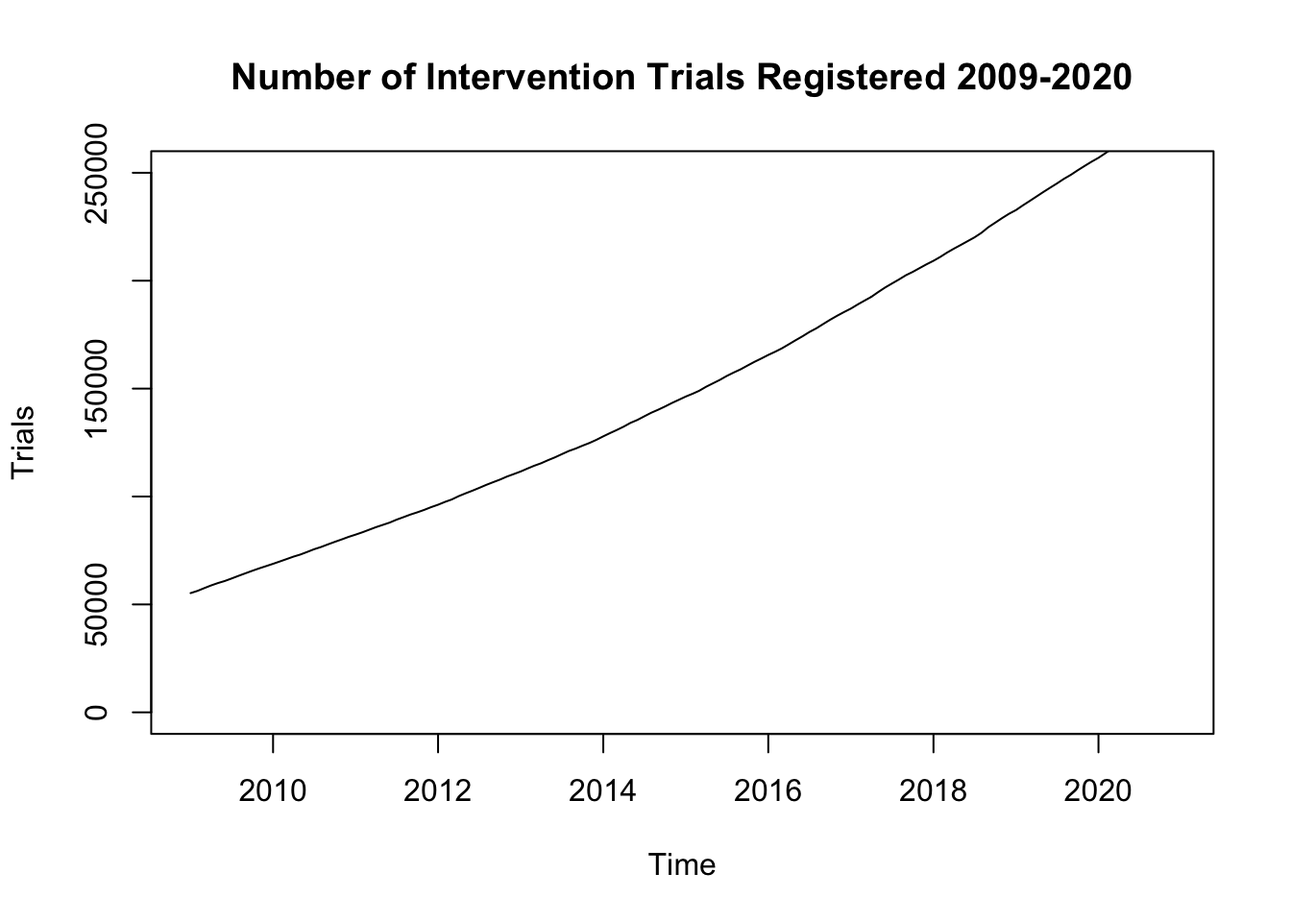
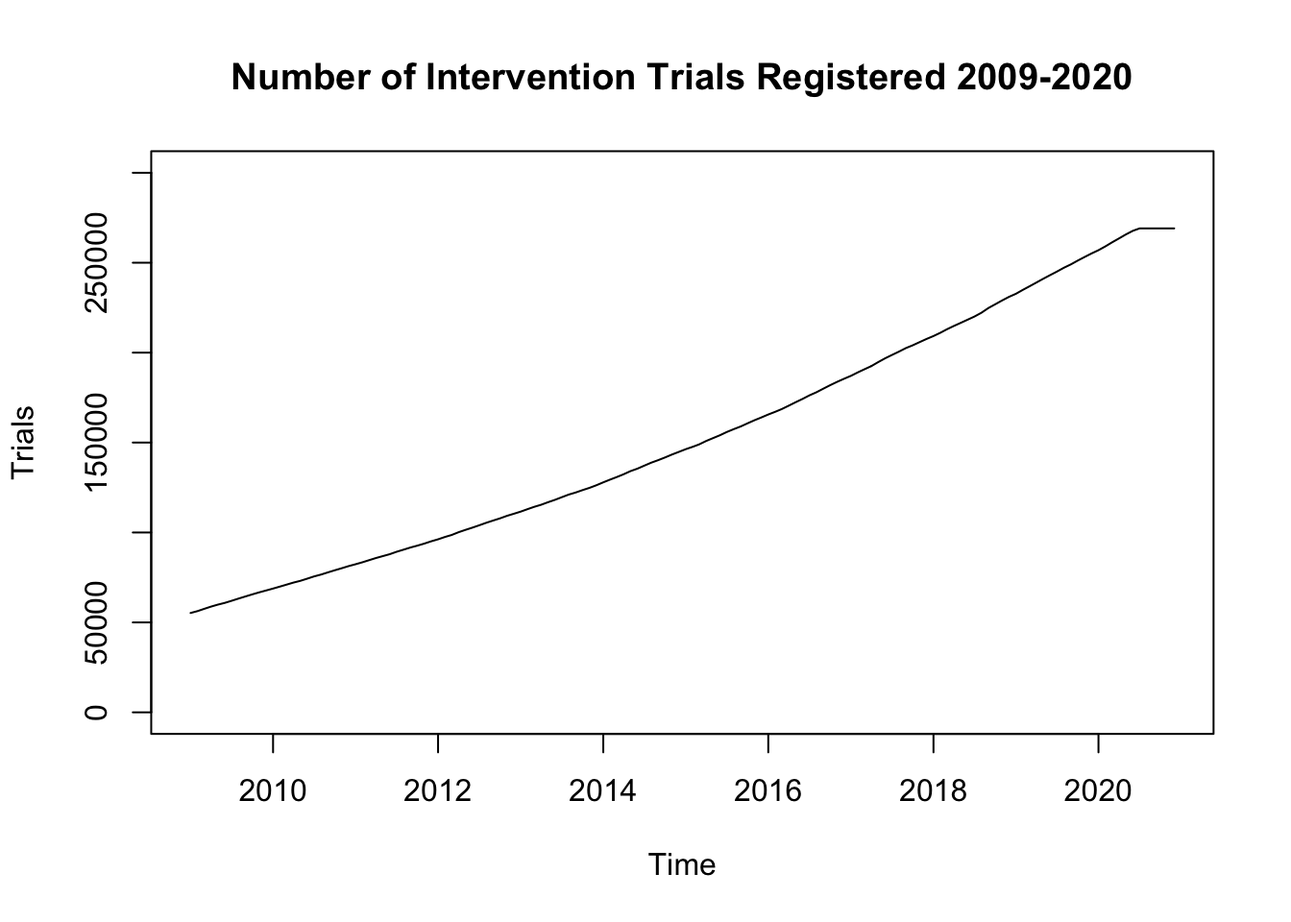
june 2020 update

diff --git a/docs/_site/PROSPERO.html b/docs/_site/PROSPERO.html
@@ -405,8 +405,8 @@ prospero_all &lt;-<span class="st"> </span><span class="kw">read.csv</span>(<spa
     <span class="dt">xaxis =</span> <span class="kw">list</span>(<span class="dt">title =</span><span class="st">&quot;Year&quot;</span>),
     <span class="dt">yaxis =</span> <span class="kw">list</span>(<span class="dt">title =</span><span class="st">&quot;Registrations&quot;</span>)
     )</code></pre></div>
-<div id="htmlwidget-716be767fef73a424306" style="width:672px;height:480px;" class="plotly html-widget"></div>
-<script type="application/json" data-for="htmlwidget-716be767fef73a424306">{"x":{"visdat":{"4c3edcb0403":["function () ","plotlyVisDat"]},"cur_data":"4c3edcb0403","attrs":{"4c3edcb0403":{"x":{},"alpha_stroke":1,"sizes":[10,100],"spans":[1,20],"type":"scatter","y":{},"name":"Number of Registrations","mode":"lines+markers","line":{"color":"rgb(205, 12, 24)","width":2},"inherit":true}},"layout":{"margin":{"b":40,"l":60,"t":25,"r":10},"title":"All systematic review registrations on PROSPERO","xaxis":{"domain":[0,1],"automargin":true,"title":"Year"},"yaxis":{"domain":[0,1],"automargin":true,"title":"Registrations"},"hovermode":"closest","showlegend":false},"source":"A","config":{"showSendToCloud":false},"data":[{"x":[2011,2012,2013,2014,2015,2016,2017,2018,2019],"type":"scatter","y":[284,759,1484,2753,5683,8245,10724,15667,10242],"name":"Number of Registrations","mode":"lines+markers","line":{"color":"rgb(205, 12, 24)","width":2},"marker":{"color":"rgba(31,119,180,1)","line":{"color":"rgba(31,119,180,1)"}},"error_y":{"color":"rgba(31,119,180,1)"},"error_x":{"color":"rgba(31,119,180,1)"},"xaxis":"x","yaxis":"y","frame":null}],"highlight":{"on":"plotly_click","persistent":false,"dynamic":false,"selectize":false,"opacityDim":0.2,"selected":{"opacity":1},"debounce":0},"shinyEvents":["plotly_hover","plotly_click","plotly_selected","plotly_relayout","plotly_brushed","plotly_brushing","plotly_clickannotation","plotly_doubleclick","plotly_deselect","plotly_afterplot","plotly_sunburstclick"],"base_url":"https://plot.ly"},"evals":[],"jsHooks":[]}</script>
+<div id="htmlwidget-1d5f9e5b6cb83e99c22f" style="width:672px;height:480px;" class="plotly html-widget"></div>
+<script type="application/json" data-for="htmlwidget-1d5f9e5b6cb83e99c22f">{"x":{"visdat":{"4b394e273cd4":["function () ","plotlyVisDat"]},"cur_data":"4b394e273cd4","attrs":{"4b394e273cd4":{"x":{},"alpha_stroke":1,"sizes":[10,100],"spans":[1,20],"type":"scatter","y":{},"name":"Number of Registrations","mode":"lines+markers","line":{"color":"rgb(205, 12, 24)","width":2},"inherit":true}},"layout":{"margin":{"b":40,"l":60,"t":25,"r":10},"title":"All systematic review registrations on PROSPERO","xaxis":{"domain":[0,1],"automargin":true,"title":"Year"},"yaxis":{"domain":[0,1],"automargin":true,"title":"Registrations"},"hovermode":"closest","showlegend":false},"source":"A","config":{"showSendToCloud":false},"data":[{"x":[2011,2012,2013,2014,2015,2016,2017,2018,2019],"type":"scatter","y":[284,759,1484,2753,5683,8245,10724,15667,10242],"name":"Number of Registrations","mode":"lines+markers","line":{"color":"rgb(205, 12, 24)","width":2},"marker":{"color":"rgba(31,119,180,1)","line":{"color":"rgba(31,119,180,1)"}},"error_y":{"color":"rgba(31,119,180,1)"},"error_x":{"color":"rgba(31,119,180,1)"},"xaxis":"x","yaxis":"y","frame":null}],"highlight":{"on":"plotly_click","persistent":false,"dynamic":false,"selectize":false,"opacityDim":0.2,"selected":{"opacity":1},"debounce":0},"shinyEvents":["plotly_hover","plotly_click","plotly_selected","plotly_relayout","plotly_brushed","plotly_brushing","plotly_clickannotation","plotly_doubleclick","plotly_deselect","plotly_afterplot","plotly_sunburstclick"],"base_url":"https://plot.ly"},"evals":[],"jsHooks":[]}</script>
 </div>
 <div id="clinical-and-general-registrations" class="section level2">
 <h2>Clinical and General Registrations</h2>
@@ -424,8 +424,8 @@ prospero_clinical &lt;-<span class="st"> </span><span class="kw">read.csv</span>
     <span class="dt">xaxis =</span> <span class="kw">list</span>(<span class="dt">title =</span><span class="st">&quot;Year&quot;</span>),
     <span class="dt">yaxis =</span> <span class="kw">list</span>(<span class="dt">title =</span><span class="st">&quot;Registrations&quot;</span>)
     )</code></pre></div>
-<div id="htmlwidget-c168f04487292c4ee9c0" style="width:672px;height:480px;" class="plotly html-widget"></div>
-<script type="application/json" data-for="htmlwidget-c168f04487292c4ee9c0">{"x":{"visdat":{"4c3e759eb18":["function () ","plotlyVisDat"]},"cur_data":"4c3e759eb18","attrs":{"4c3e759eb18":{"x":{},"alpha_stroke":1,"sizes":[10,100],"spans":[1,20],"type":"scatter","y":{},"name":"Number of Registrations","mode":"lines+markers","line":{"color":"rgb(22, 96, 167)","width":2},"inherit":true}},"layout":{"margin":{"b":40,"l":60,"t":25,"r":10},"title":"Clinical & General Systematic Review Registrations on PROSPERO","xaxis":{"domain":[0,1],"automargin":true,"title":"Year"},"yaxis":{"domain":[0,1],"automargin":true,"title":"Registrations"},"hovermode":"closest","showlegend":false},"source":"A","config":{"showSendToCloud":false},"data":[{"x":[2011,2012,2013,2014,2015,2016,2017,2018,2019],"type":"scatter","y":[284,759,1484,2753,4689,7857,10108,15350,9856],"name":"Number of Registrations","mode":"lines+markers","line":{"color":"rgb(22, 96, 167)","width":2},"marker":{"color":"rgba(31,119,180,1)","line":{"color":"rgba(31,119,180,1)"}},"error_y":{"color":"rgba(31,119,180,1)"},"error_x":{"color":"rgba(31,119,180,1)"},"xaxis":"x","yaxis":"y","frame":null}],"highlight":{"on":"plotly_click","persistent":false,"dynamic":false,"selectize":false,"opacityDim":0.2,"selected":{"opacity":1},"debounce":0},"shinyEvents":["plotly_hover","plotly_click","plotly_selected","plotly_relayout","plotly_brushed","plotly_brushing","plotly_clickannotation","plotly_doubleclick","plotly_deselect","plotly_afterplot","plotly_sunburstclick"],"base_url":"https://plot.ly"},"evals":[],"jsHooks":[]}</script>
+<div id="htmlwidget-3d562a5215caf94658b7" style="width:672px;height:480px;" class="plotly html-widget"></div>
+<script type="application/json" data-for="htmlwidget-3d562a5215caf94658b7">{"x":{"visdat":{"4b391a3800c5":["function () ","plotlyVisDat"]},"cur_data":"4b391a3800c5","attrs":{"4b391a3800c5":{"x":{},"alpha_stroke":1,"sizes":[10,100],"spans":[1,20],"type":"scatter","y":{},"name":"Number of Registrations","mode":"lines+markers","line":{"color":"rgb(22, 96, 167)","width":2},"inherit":true}},"layout":{"margin":{"b":40,"l":60,"t":25,"r":10},"title":"Clinical & General Systematic Review Registrations on PROSPERO","xaxis":{"domain":[0,1],"automargin":true,"title":"Year"},"yaxis":{"domain":[0,1],"automargin":true,"title":"Registrations"},"hovermode":"closest","showlegend":false},"source":"A","config":{"showSendToCloud":false},"data":[{"x":[2011,2012,2013,2014,2015,2016,2017,2018,2019],"type":"scatter","y":[284,759,1484,2753,4689,7857,10108,15350,9856],"name":"Number of Registrations","mode":"lines+markers","line":{"color":"rgb(22, 96, 167)","width":2},"marker":{"color":"rgba(31,119,180,1)","line":{"color":"rgba(31,119,180,1)"}},"error_y":{"color":"rgba(31,119,180,1)"},"error_x":{"color":"rgba(31,119,180,1)"},"xaxis":"x","yaxis":"y","frame":null}],"highlight":{"on":"plotly_click","persistent":false,"dynamic":false,"selectize":false,"opacityDim":0.2,"selected":{"opacity":1},"debounce":0},"shinyEvents":["plotly_hover","plotly_click","plotly_selected","plotly_relayout","plotly_brushed","plotly_brushing","plotly_clickannotation","plotly_doubleclick","plotly_deselect","plotly_afterplot","plotly_sunburstclick"],"base_url":"https://plot.ly"},"evals":[],"jsHooks":[]}</script>
 </div>
 <div id="animal-systematic-review-registrations" class="section level1">
 <h1>Animal Systematic Review Registrations</h1>
@@ -443,8 +443,8 @@ prospero_animal &lt;-<span class="st"> </span><span class="kw">read.csv</span>(<
     <span class="dt">xaxis =</span> <span class="kw">list</span>(<span class="dt">title =</span><span class="st">&quot;Year&quot;</span>),
     <span class="dt">yaxis =</span> <span class="kw">list</span>(<span class="dt">title =</span><span class="st">&quot;Registrations&quot;</span>)
     )</code></pre></div>
-<div id="htmlwidget-2647c742474ac26edae2" style="width:672px;height:480px;" class="plotly html-widget"></div>
-<script type="application/json" data-for="htmlwidget-2647c742474ac26edae2">{"x":{"visdat":{"4c3e51f14cb2":["function () ","plotlyVisDat"]},"cur_data":"4c3e51f14cb2","attrs":{"4c3e51f14cb2":{"x":{},"alpha_stroke":1,"sizes":[10,100],"spans":[1,20],"type":"scatter","y":{},"name":"Number of Registrations","mode":"lines+markers","line":{"color":"rgb(2, 2, 2)","width":2},"inherit":true}},"layout":{"margin":{"b":40,"l":60,"t":25,"r":10},"title":"Animal Systematic Review Registrations on PROSPERO","xaxis":{"domain":[0,1],"automargin":true,"title":"Year"},"yaxis":{"domain":[0,1],"automargin":true,"title":"Registrations"},"hovermode":"closest","showlegend":false},"source":"A","config":{"showSendToCloud":false},"data":[{"x":[2011,2012,2013,2014,2015,2016,2017,2018,2019],"type":"scatter","y":[0,0,0,0,0,0,2,117,133],"name":"Number of Registrations","mode":"lines+markers","line":{"color":"rgb(2, 2, 2)","width":2},"marker":{"color":"rgba(31,119,180,1)","line":{"color":"rgba(31,119,180,1)"}},"error_y":{"color":"rgba(31,119,180,1)"},"error_x":{"color":"rgba(31,119,180,1)"},"xaxis":"x","yaxis":"y","frame":null}],"highlight":{"on":"plotly_click","persistent":false,"dynamic":false,"selectize":false,"opacityDim":0.2,"selected":{"opacity":1},"debounce":0},"shinyEvents":["plotly_hover","plotly_click","plotly_selected","plotly_relayout","plotly_brushed","plotly_brushing","plotly_clickannotation","plotly_doubleclick","plotly_deselect","plotly_afterplot","plotly_sunburstclick"],"base_url":"https://plot.ly"},"evals":[],"jsHooks":[]}</script>
+<div id="htmlwidget-8b3c6beabd67bc7e7560" style="width:672px;height:480px;" class="plotly html-widget"></div>
+<script type="application/json" data-for="htmlwidget-8b3c6beabd67bc7e7560">{"x":{"visdat":{"4b3957063d41":["function () ","plotlyVisDat"]},"cur_data":"4b3957063d41","attrs":{"4b3957063d41":{"x":{},"alpha_stroke":1,"sizes":[10,100],"spans":[1,20],"type":"scatter","y":{},"name":"Number of Registrations","mode":"lines+markers","line":{"color":"rgb(2, 2, 2)","width":2},"inherit":true}},"layout":{"margin":{"b":40,"l":60,"t":25,"r":10},"title":"Animal Systematic Review Registrations on PROSPERO","xaxis":{"domain":[0,1],"automargin":true,"title":"Year"},"yaxis":{"domain":[0,1],"automargin":true,"title":"Registrations"},"hovermode":"closest","showlegend":false},"source":"A","config":{"showSendToCloud":false},"data":[{"x":[2011,2012,2013,2014,2015,2016,2017,2018,2019],"type":"scatter","y":[0,0,0,0,0,0,2,117,133],"name":"Number of Registrations","mode":"lines+markers","line":{"color":"rgb(2, 2, 2)","width":2},"marker":{"color":"rgba(31,119,180,1)","line":{"color":"rgba(31,119,180,1)"}},"error_y":{"color":"rgba(31,119,180,1)"},"error_x":{"color":"rgba(31,119,180,1)"},"xaxis":"x","yaxis":"y","frame":null}],"highlight":{"on":"plotly_click","persistent":false,"dynamic":false,"selectize":false,"opacityDim":0.2,"selected":{"opacity":1},"debounce":0},"shinyEvents":["plotly_hover","plotly_click","plotly_selected","plotly_relayout","plotly_brushed","plotly_brushing","plotly_clickannotation","plotly_doubleclick","plotly_deselect","plotly_afterplot","plotly_sunburstclick"],"base_url":"https://plot.ly"},"evals":[],"jsHooks":[]}</script>
 </div>
 <div id="cochrane-systematic-review-registrations" class="section level1">
 <h1>Cochrane Systematic Review Registrations</h1>
@@ -462,8 +462,8 @@ prospero_cochrane &lt;-<span class="st"> </span><span class="kw">read.csv</span>
     <span class="dt">xaxis =</span> <span class="kw">list</span>(<span class="dt">title =</span><span class="st">&quot;Year&quot;</span>),
     <span class="dt">yaxis =</span> <span class="kw">list</span>(<span class="dt">title =</span><span class="st">&quot;Registrations&quot;</span>)
   )</code></pre></div>
-<div id="htmlwidget-92e4b57f88ecf39bdf11" style="width:672px;height:480px;" class="plotly html-widget"></div>
-<script type="application/json" data-for="htmlwidget-92e4b57f88ecf39bdf11">{"x":{"visdat":{"4c3e171cd650":["function () ","plotlyVisDat"]},"cur_data":"4c3e171cd650","attrs":{"4c3e171cd650":{"x":{},"alpha_stroke":1,"sizes":[10,100],"spans":[1,20],"type":"scatter","y":{},"name":"Number of Registrations","mode":"lines+markers","line":{"color":"rgb(147, 43, 140)","width":2},"inherit":true}},"layout":{"margin":{"b":40,"l":60,"t":25,"r":10},"title":"Cochrane Systematic Review Registrations on PROSPERO","xaxis":{"domain":[0,1],"automargin":true,"title":"Year"},"yaxis":{"domain":[0,1],"automargin":true,"title":"Registrations"},"hovermode":"closest","showlegend":false},"source":"A","config":{"showSendToCloud":false},"data":[{"x":[2011,2012,2013,2014,2015,2016,2017,2018,2019],"type":"scatter","y":[0,0,0,0,994,388,614,200,253],"name":"Number of Registrations","mode":"lines+markers","line":{"color":"rgb(147, 43, 140)","width":2},"marker":{"color":"rgba(31,119,180,1)","line":{"color":"rgba(31,119,180,1)"}},"error_y":{"color":"rgba(31,119,180,1)"},"error_x":{"color":"rgba(31,119,180,1)"},"xaxis":"x","yaxis":"y","frame":null}],"highlight":{"on":"plotly_click","persistent":false,"dynamic":false,"selectize":false,"opacityDim":0.2,"selected":{"opacity":1},"debounce":0},"shinyEvents":["plotly_hover","plotly_click","plotly_selected","plotly_relayout","plotly_brushed","plotly_brushing","plotly_clickannotation","plotly_doubleclick","plotly_deselect","plotly_afterplot","plotly_sunburstclick"],"base_url":"https://plot.ly"},"evals":[],"jsHooks":[]}</script>
+<div id="htmlwidget-aedf84c7fd5b3f71d80c" style="width:672px;height:480px;" class="plotly html-widget"></div>
+<script type="application/json" data-for="htmlwidget-aedf84c7fd5b3f71d80c">{"x":{"visdat":{"4b392688d25a":["function () ","plotlyVisDat"]},"cur_data":"4b392688d25a","attrs":{"4b392688d25a":{"x":{},"alpha_stroke":1,"sizes":[10,100],"spans":[1,20],"type":"scatter","y":{},"name":"Number of Registrations","mode":"lines+markers","line":{"color":"rgb(147, 43, 140)","width":2},"inherit":true}},"layout":{"margin":{"b":40,"l":60,"t":25,"r":10},"title":"Cochrane Systematic Review Registrations on PROSPERO","xaxis":{"domain":[0,1],"automargin":true,"title":"Year"},"yaxis":{"domain":[0,1],"automargin":true,"title":"Registrations"},"hovermode":"closest","showlegend":false},"source":"A","config":{"showSendToCloud":false},"data":[{"x":[2011,2012,2013,2014,2015,2016,2017,2018,2019],"type":"scatter","y":[0,0,0,0,994,388,614,200,253],"name":"Number of Registrations","mode":"lines+markers","line":{"color":"rgb(147, 43, 140)","width":2},"marker":{"color":"rgba(31,119,180,1)","line":{"color":"rgba(31,119,180,1)"}},"error_y":{"color":"rgba(31,119,180,1)"},"error_x":{"color":"rgba(31,119,180,1)"},"xaxis":"x","yaxis":"y","frame":null}],"highlight":{"on":"plotly_click","persistent":false,"dynamic":false,"selectize":false,"opacityDim":0.2,"selected":{"opacity":1},"debounce":0},"shinyEvents":["plotly_hover","plotly_click","plotly_selected","plotly_relayout","plotly_brushed","plotly_brushing","plotly_clickannotation","plotly_doubleclick","plotly_deselect","plotly_afterplot","plotly_sunburstclick"],"base_url":"https://plot.ly"},"evals":[],"jsHooks":[]}</script>
 <p>Please contact <a href="mailto:alexandra_bannachbrown@bond.edu.au" target="_blank"> Alexandra Bannach-Brown</a> if you have any questions.</p>
 </div>
 

diff --git a/docs/_site/pubmed_sys_rev.html b/docs/_site/pubmed_sys_rev.html
@@ -378,7 +378,7 @@ $(document).ready(function () {
 
 <h1 class="title toc-ignore">Identifying Systematic Reviews from PubMed</h1>
 <h4 class="author">Alexandra Bannach-Brown on behalf of the EQUATOR Network</h4>
-<h4 class="date">08 April, 2020</h4>
+<h4 class="date">17 June, 2020</h4>
 
 </div>
 
@@ -392,9 +392,9 @@ $(document).ready(function () {
 <p>We query PubMed via the API to find the number of records that are systematic reviews and have the ‘human’ MESH heading attached.</p>
 <div class="sourceCode"><pre class="sourceCode r"><code class="sourceCode r"><span class="co"># human systematic reviews pubmed query</span>
 sys_rev_human_query &lt;-<span class="st"> &quot;(systematic review[PTYP] AND human[MESH])&quot;</span>
-sys_rev_human_search &lt;-<span class="st"> </span><span class="kw">entrez_search</span>(<span class="dt">db =</span> <span class="st">&quot;pubmed&quot;</span>, sys_rev_human_query, <span class="dt">use_history =</span> <span class="ot">TRUE</span> )
+sys_rev_human_search &lt;-<span class="st"> </span><span class="kw">entrez_search</span>(<span class="dt">db =</span> <span class="st">&quot;pubmed&quot;</span>, sys_rev_human_query, <span class="dt">use_history =</span> <span class="ot">FALSE</span> )
 sys_rev_human_search<span class="op">$</span>count</code></pre></div>
-<pre><code>## [1] 122014</code></pre>
+<pre><code>## [1] 126364</code></pre>
 <p>We can visualise the number of systematic reviews published in the past 10 years.</p>
 <div class="sourceCode"><pre class="sourceCode r"><code class="sourceCode r">sys_rev_year &lt;-<span class="st"> </span><span class="cf">function</span>(year, term){
   query &lt;-<span class="st"> </span><span class="kw">paste</span>(term, <span class="st">&quot;AND(&quot;</span>, year, <span class="st">&quot;[PDAT])&quot;</span>)
@@ -420,17 +420,17 @@ papers &lt;-<span class="st"> </span><span class="kw">sapply</span>(year, sys_re
     <span class="dt">xaxis =</span> <span class="kw">list</span>(<span class="dt">title =</span><span class="st">&quot;Year&quot;</span>),
     <span class="dt">yaxis =</span> <span class="kw">list</span>(<span class="dt">title =</span><span class="st">&quot;Articles&quot;</span>, <span class="dt">rangemode =</span> <span class="st">&quot;tozero&quot;</span>)
   )</code></pre></div>
-<div id="htmlwidget-5fcfb3b39bca4f7f791f" style="width:672px;height:480px;" class="plotly html-widget"></div>
-<script type="application/json" data-for="htmlwidget-5fcfb3b39bca4f7f791f">{"x":{"visdat":{"4c3e17662ec3":["function () ","plotlyVisDat"]},"cur_data":"4c3e17662ec3","attrs":{"4c3e17662ec3":{"x":{},"alpha_stroke":1,"sizes":[10,100],"spans":[1,20],"type":"scatter","y":{},"name":"Number of Systematic Reviews Published","mode":"lines+markers","line":{"color":"rgb(171,39,79)","width":2},"inherit":true}},"layout":{"margin":{"b":40,"l":60,"t":25,"r":10},"title":"Increase in Human Systematic Reviews - Count per year 2008:2019","xaxis":{"domain":[0,1],"automargin":true,"title":"Year"},"yaxis":{"domain":[0,1],"automargin":true,"title":"Articles","rangemode":"tozero"},"hovermode":"closest","showlegend":false},"source":"A","config":{"showSendToCloud":false},"data":[{"x":[2008,2009,2010,2011,2012,2013,2014,2015,2016,2017,2018,2019],"type":"scatter","y":[3554,4333,5188,6411,8136,9998,11716,13491,14969,16870,18628,12866],"name":"Number of Systematic Reviews Published","mode":"lines+markers","line":{"color":"rgb(171,39,79)","width":2},"marker":{"color":"rgba(31,119,180,1)","line":{"color":"rgba(31,119,180,1)"}},"error_y":{"color":"rgba(31,119,180,1)"},"error_x":{"color":"rgba(31,119,180,1)"},"xaxis":"x","yaxis":"y","frame":null}],"highlight":{"on":"plotly_click","persistent":false,"dynamic":false,"selectize":false,"opacityDim":0.2,"selected":{"opacity":1},"debounce":0},"shinyEvents":["plotly_hover","plotly_click","plotly_selected","plotly_relayout","plotly_brushed","plotly_brushing","plotly_clickannotation","plotly_doubleclick","plotly_deselect","plotly_afterplot","plotly_sunburstclick"],"base_url":"https://plot.ly"},"evals":[],"jsHooks":[]}</script>
+<div id="htmlwidget-2b8b12f956a98299e344" style="width:672px;height:480px;" class="plotly html-widget"></div>
+<script type="application/json" data-for="htmlwidget-2b8b12f956a98299e344">{"x":{"visdat":{"4b39bd0c06b":["function () ","plotlyVisDat"]},"cur_data":"4b39bd0c06b","attrs":{"4b39bd0c06b":{"x":{},"alpha_stroke":1,"sizes":[10,100],"spans":[1,20],"type":"scatter","y":{},"name":"Number of Systematic Reviews Published","mode":"lines+markers","line":{"color":"rgb(171,39,79)","width":2},"inherit":true}},"layout":{"margin":{"b":40,"l":60,"t":25,"r":10},"title":"Increase in Human Systematic Reviews - Count per year 2008:2019","xaxis":{"domain":[0,1],"automargin":true,"title":"Year"},"yaxis":{"domain":[0,1],"automargin":true,"title":"Articles","rangemode":"tozero"},"hovermode":"closest","showlegend":false},"source":"A","config":{"showSendToCloud":false},"data":[{"x":[2008,2009,2010,2011,2012,2013,2014,2015,2016,2017,2018,2019],"type":"scatter","y":[3553,4333,5186,6407,8136,9998,11716,13493,14969,16893,19124,16568],"name":"Number of Systematic Reviews Published","mode":"lines+markers","line":{"color":"rgb(171,39,79)","width":2},"marker":{"color":"rgba(31,119,180,1)","line":{"color":"rgba(31,119,180,1)"}},"error_y":{"color":"rgba(31,119,180,1)"},"error_x":{"color":"rgba(31,119,180,1)"},"xaxis":"x","yaxis":"y","frame":null}],"highlight":{"on":"plotly_click","persistent":false,"dynamic":false,"selectize":false,"opacityDim":0.2,"selected":{"opacity":1},"debounce":0},"shinyEvents":["plotly_hover","plotly_click","plotly_selected","plotly_relayout","plotly_brushed","plotly_brushing","plotly_clickannotation","plotly_doubleclick","plotly_deselect","plotly_afterplot","plotly_sunburstclick"],"base_url":"https://plot.ly"},"evals":[],"jsHooks":[]}</script>
 </div>
 <div id="systematic-reviews-of-animal-studies" class="section level2">
 <h2>Systematic Reviews of Animal Studies</h2>
 <p>Then we query PubMed via the API to find the number of records that are systematic reviews and ‘animal’ MeSH heading.</p>
 <div class="sourceCode"><pre class="sourceCode r"><code class="sourceCode r">alt_animal_query &lt;-<span class="st"> &quot;(systematic review[PTYP] AND animal[MESH] NOT human[MESH])&quot;</span>
 
-sys_rev_animal_search &lt;-<span class="st"> </span><span class="kw">entrez_search</span>(<span class="dt">db =</span> <span class="st">&quot;pubmed&quot;</span>, alt_animal_query, <span class="dt">use_history =</span> <span class="ot">TRUE</span> )
+sys_rev_animal_search &lt;-<span class="st"> </span><span class="kw">entrez_search</span>(<span class="dt">db =</span> <span class="st">&quot;pubmed&quot;</span>, alt_animal_query, <span class="dt">use_history =</span> <span class="ot">FALSE</span>)
 sys_rev_animal_search<span class="op">$</span>count</code></pre></div>
-<pre><code>## [1] 893</code></pre>
+<pre><code>## [1] 945</code></pre>
 <p>We can visualise the number of animal systematic reviews published in the past 10 years.</p>
 <div class="sourceCode"><pre class="sourceCode r"><code class="sourceCode r">sys_rev_year &lt;-<span class="st"> </span><span class="cf">function</span>(year, term){
   query &lt;-<span class="st"> </span><span class="kw">paste</span>(term, <span class="st">&quot;AND(&quot;</span>, year, <span class="st">&quot;[PDAT])&quot;</span>)
@@ -456,8 +456,8 @@ papers_animal &lt;-<span class="st"> </span><span class="kw">sapply</span>(year,
     <span class="dt">xaxis =</span> <span class="kw">list</span>(<span class="dt">title =</span><span class="st">&quot;Year&quot;</span>),
     <span class="dt">yaxis =</span> <span class="kw">list</span>(<span class="dt">title =</span><span class="st">&quot;Articles&quot;</span>, <span class="dt">rangemode =</span> <span class="st">&quot;tozero&quot;</span>)
   )</code></pre></div>
-<div id="htmlwidget-cf4eb8e0682ca735f575" style="width:672px;height:480px;" class="plotly html-widget"></div>
-<script type="application/json" data-for="htmlwidget-cf4eb8e0682ca735f575">{"x":{"visdat":{"4c3e1c1bde0d":["function () ","plotlyVisDat"]},"cur_data":"4c3e1c1bde0d","attrs":{"4c3e1c1bde0d":{"x":{},"alpha_stroke":1,"sizes":[10,100],"spans":[1,20],"type":"scatter","y":{},"name":"Number of Systematic Reviews Published","mode":"lines+markers","line":{"color":"rgb(124,185,232)","width":2},"inherit":true}},"layout":{"margin":{"b":40,"l":60,"t":25,"r":10},"title":"Increase in Animal Systematic Reviews - Count per year 2008:2019","xaxis":{"domain":[0,1],"automargin":true,"title":"Year"},"yaxis":{"domain":[0,1],"automargin":true,"title":"Articles","rangemode":"tozero"},"hovermode":"closest","showlegend":false},"source":"A","config":{"showSendToCloud":false},"data":[{"x":[2008,2009,2010,2011,2012,2013,2014,2015,2016,2017,2018,2019],"type":"scatter","y":[11,17,24,34,59,61,90,106,130,145,167,152],"name":"Number of Systematic Reviews Published","mode":"lines+markers","line":{"color":"rgb(124,185,232)","width":2},"marker":{"color":"rgba(31,119,180,1)","line":{"color":"rgba(31,119,180,1)"}},"error_y":{"color":"rgba(31,119,180,1)"},"error_x":{"color":"rgba(31,119,180,1)"},"xaxis":"x","yaxis":"y","frame":null}],"highlight":{"on":"plotly_click","persistent":false,"dynamic":false,"selectize":false,"opacityDim":0.2,"selected":{"opacity":1},"debounce":0},"shinyEvents":["plotly_hover","plotly_click","plotly_selected","plotly_relayout","plotly_brushed","plotly_brushing","plotly_clickannotation","plotly_doubleclick","plotly_deselect","plotly_afterplot","plotly_sunburstclick"],"base_url":"https://plot.ly"},"evals":[],"jsHooks":[]}</script>
+<div id="htmlwidget-f52775f95a9ee879b3e6" style="width:672px;height:480px;" class="plotly html-widget"></div>
+<script type="application/json" data-for="htmlwidget-f52775f95a9ee879b3e6">{"x":{"visdat":{"4b397aa5836a":["function () ","plotlyVisDat"]},"cur_data":"4b397aa5836a","attrs":{"4b397aa5836a":{"x":{},"alpha_stroke":1,"sizes":[10,100],"spans":[1,20],"type":"scatter","y":{},"name":"Number of Systematic Reviews Published","mode":"lines+markers","line":{"color":"rgb(124,185,232)","width":2},"inherit":true}},"layout":{"margin":{"b":40,"l":60,"t":25,"r":10},"title":"Increase in Animal Systematic Reviews - Count per year 2008:2019","xaxis":{"domain":[0,1],"automargin":true,"title":"Year"},"yaxis":{"domain":[0,1],"automargin":true,"title":"Articles","rangemode":"tozero"},"hovermode":"closest","showlegend":false},"source":"A","config":{"showSendToCloud":false},"data":[{"x":[2008,2009,2010,2011,2012,2013,2014,2015,2016,2017,2018,2019],"type":"scatter","y":[11,17,24,34,59,61,90,106,130,147,167,194],"name":"Number of Systematic Reviews Published","mode":"lines+markers","line":{"color":"rgb(124,185,232)","width":2},"marker":{"color":"rgba(31,119,180,1)","line":{"color":"rgba(31,119,180,1)"}},"error_y":{"color":"rgba(31,119,180,1)"},"error_x":{"color":"rgba(31,119,180,1)"},"xaxis":"x","yaxis":"y","frame":null}],"highlight":{"on":"plotly_click","persistent":false,"dynamic":false,"selectize":false,"opacityDim":0.2,"selected":{"opacity":1},"debounce":0},"shinyEvents":["plotly_hover","plotly_click","plotly_selected","plotly_relayout","plotly_brushed","plotly_brushing","plotly_clickannotation","plotly_doubleclick","plotly_deselect","plotly_afterplot","plotly_sunburstclick"],"base_url":"https://plot.ly"},"evals":[],"jsHooks":[]}</script>
 <p>Please contact <a href="mailto:alexandra_bannachbrown@bond.edu.au" target="_blank"> Alexandra Bannach-Brown</a> if you have any questions.</p>
 </div>
 

diff --git a/docs/_site/clinical_trials.html b/docs/_site/clinical_trials.html
@@ -371,7 +371,7 @@ $(document).ready(function () {
 
 <h1 class="title toc-ignore">Identifying Trials Registerd on ClinicalTrials.gov</h1>
 <h4 class="author">Alexandra Bannach-Brown on behalf of the EQUATOR Network</h4>
-<h4 class="date">08 April, 2020</h4>
+<h4 class="date">17 June, 2020</h4>
 
 </div>
 
@@ -384,25 +384,25 @@ $(document).ready(function () {
 <h2>Total Number of Trials</h2>
 <p>The number of records in clinicaltrials.gov is:</p>
 <div class="sourceCode"><pre class="sourceCode r"><code class="sourceCode r"><span class="kw">clinicaltrials_count</span>(<span class="dt">query =</span> <span class="st">&quot;ALL&quot;</span>)</code></pre></div>
-<pre><code>## [1] 335336</code></pre>
+<pre><code>## [1] 342900</code></pre>
 </div>
 <div id="total-number-of-actively-recruiting-trials" class="section level2">
 <h2>Total Number of Actively Recruiting Trials</h2>
 <p>The number of trials that are currently recruiting is:</p>
 <div class="sourceCode"><pre class="sourceCode r"><code class="sourceCode r"><span class="kw">clinicaltrials_count</span>(<span class="dt">query =</span> <span class="kw">c</span>(<span class="st">&quot;recr=Recruiting&quot;</span>, <span class="st">&quot;ALL&quot;</span>))</code></pre></div>
-<pre><code>## [1] 51953</code></pre>
+<pre><code>## [1] 51616</code></pre>
 </div>
 <div id="total-number-of-completed-trials" class="section level2">
 <h2>Total Number of Completed Trials</h2>
 <p>The number of trials that are marked as completed:</p>
 <div class="sourceCode"><pre class="sourceCode r"><code class="sourceCode r"><span class="kw">clinicaltrials_count</span>(<span class="dt">query =</span> <span class="kw">c</span>(<span class="st">&quot;recr=Completed&quot;</span>, <span class="st">&quot;ALL&quot;</span>))</code></pre></div>
-<pre><code>## [1] 180744</code></pre>
+<pre><code>## [1] 184258</code></pre>
 </div>
 <div id="new-trials-in-2018" class="section level2">
 <h2>New Trials in 2018</h2>
 <p>The number of new trials posted in 2018 is:</p>
 <div class="sourceCode"><pre class="sourceCode r"><code class="sourceCode r"><span class="kw">clinicaltrials_count</span>(<span class="dt">query =</span> <span class="kw">c</span>(<span class="st">&quot;rcv_s=01/01/2018&quot;</span>, <span class="st">&quot;rcv_e=12/31/2018&quot;</span>))</code></pre></div>
-<pre><code>## [1] 30978</code></pre>
+<pre><code>## [1] 30975</code></pre>
 </div>
 <div id="new-trials-in-2019" class="section level2">
 <h2>New Trials in 2019</h2>
@@ -414,7 +414,7 @@ $(document).ready(function () {
 <h2>New Trials in 2020</h2>
 <p>The number of new trials posted in 2020 is:</p>
 <div class="sourceCode"><pre class="sourceCode r"><code class="sourceCode r"><span class="kw">clinicaltrials_count</span>(<span class="dt">query =</span> <span class="kw">c</span>(<span class="st">&quot;rcv_s=01/01/2020&quot;</span>, <span class="st">&quot;rcv_e=12/31/2020&quot;</span>))</code></pre></div>
-<pre><code>## [1] 9490</code></pre>
+<pre><code>## [1] 17060</code></pre>
 </div>
 <div id="trials-registered-in-the-past-10-years" class="section level2">
 <h2>Trials Registered in the Past 10 years</h2>
@@ -456,7 +456,7 @@ ctOverTime<span class="op">$</span>startDate &lt;-<span class="st"> </span><span
 ctOverTime<span class="op">$</span>startDate &lt;-<span class="st"> </span><span class="kw">as.Date</span>(ctOverTime<span class="op">$</span>startDate,<span class="st">&quot;%m/%d/%Y&quot;</span>)
 <span class="kw">with</span>(ctOverTime, 
      
- <span class="kw">plot</span>(numOfTrials <span class="op">~</span><span class="st"> </span>startDate, <span class="dt">type =</span> <span class="st">&quot;l&quot;</span>,<span class="dt">main=</span><span class="st">&quot;Number of Intervention Trials Registered 2009-2020&quot;</span>, <span class="dt">ylim =</span> <span class="kw">c</span>(<span class="dv">0</span>,<span class="dv">250000</span>), <span class="dt">xlab =</span> <span class="st">&quot;Time&quot;</span>,<span class="dt">ylab=</span><span class="st">&quot;Trials&quot;</span>)
+ <span class="kw">plot</span>(numOfTrials <span class="op">~</span><span class="st"> </span>startDate, <span class="dt">type =</span> <span class="st">&quot;l&quot;</span>,<span class="dt">main=</span><span class="st">&quot;Number of Intervention Trials Registered 2009-2020&quot;</span>, <span class="dt">ylim =</span> <span class="kw">c</span>(<span class="dv">0</span>,<span class="dv">300000</span>), <span class="dt">xlab =</span> <span class="st">&quot;Time&quot;</span>,<span class="dt">ylab=</span><span class="st">&quot;Trials&quot;</span>)
 )</code></pre></div>
 <p><img src="clinical_trials_files/figure-html/over%20time-1.png" width="672" /></p>
 <div class="sourceCode"><pre class="sourceCode r"><code class="sourceCode r">  <span class="co">#    plot_ly( x=~startDate) %&gt;%</span>
